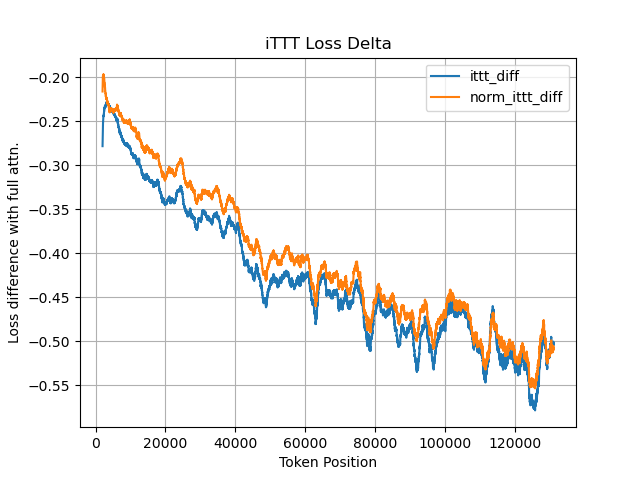
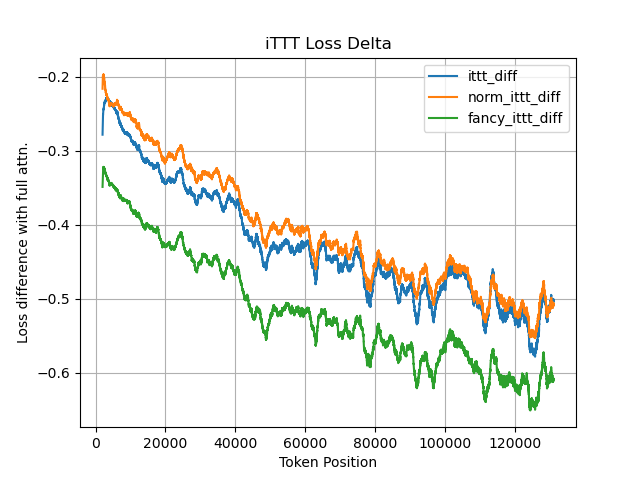
ah

diff --git a/src/compare_ittt.py b/src/compare_ittt.py
@@ -179,10 +179,12 @@ def analyze_results():
     
     diff = ittt_losses - lm_losses
     norm_diff = norm_ittt_losses - lm_losses
+    fancy_diff = fancy_ittt_losses - lm_losses
 
     df = pd.DataFrame({
         "ittt_diff": nan_mean(diff),
         "norm_ittt_diff": nan_mean(norm_diff),
+        "fancy_ittt_diff": nan_mean(fancy_diff),
     })
 
     for col in df.columns:
@@ -203,5 +205,5 @@ def analyze_results():
 
 
 if __name__ == "__main__":
-    main()
+    # main()
     analyze_results()

diff --git a/RESEARCH_AGENDA.md b/RESEARCH_AGENDA.md
@@ -10,6 +10,13 @@ TPU quota expires: ~May 31st
 
 https://aklein.bearblog.dev/ittt/
 
+**Release Name Candidates:**
+- InchWorm
+   - The model inches along the context, keeping constant activation sequence length 
+- Dart or Arrow
+   - Training only moves forward (no BPTT)
+
+
 ## Goals
 1. Paper accepted at NeurIPS 2026
    - Paper Abstract Submission Deadline: May 4th
@@ -20,81 +27,127 @@ https://aklein.bearblog.dev/ittt/
 
 
 ## So Far
-
-### Augmenting Existing Models
-- Demonstrated improved perplexity in plug-and-play setting against sliding-window baseline
-- Continued pretraining (2B tokens) improves perplexity against plug-and-play
-   - Still worse than dense attention
-
-### Training From Scratch
 - Pretrained ~1B models on 2B tokens at 32K sequence length
    - Showed decreasing perplexity with token position (including extrapolation) 
    - Beats dense attention baseline (1B tokens iTTT approx 2B tokens attention)
+      - wins by bigger difference at later token positions
 
 
-## Plan
+## Guidelines
+- Focus on novelty:
+   1. O(1) train-time memory (no BPTT)
+- Be sure to mention:
+   1. Native length extrapolation from inductive bias
+   2. Compatibility with existing LoRA engines
+   3. Ease of implementation (python-level ops only like LaCT)
+- Target results:
+   1. Training length performance similar to attention (even past chinchilla optimal training)
+      - iTTT does particularly better than attention early in training because of inductive bias, need to show that attention doesn't overtake later 
+   2. Better length extrapolation than attention
+   3. Particularly good in-context learning performance
+- Thorough benchmarks and baselines (good science)
+   - perplexity as workhorse metric
+   - real-world (RULER, LongBench) is more important than NIAH
+   - Attention is gold-standard baseline, at least need to test SOTA constant state size method (LaCT? TTT-E2E?)
+   - Use best version of baselines to remove doubt
+- Clear-cut compute/memory metrics and graphs
+- Keep methods simple and elegant
+   - minimize hyper-parameters
+   - minimize and ablate arbitrary design decisions 
+- Include _some_ theory
+   - Connections to meta-learning like MAML and Reptile
+   - Muon optimizer connections to Hebbian learning
+   - High-dimensional MLP -> low-noise Hebbian retrieval
+- Prioritize visual diagrams for method explanations 
+- Need a headline result/graph
+   - Match/beat attention with constant training memory
+   - Extrapolate to 1M+ token sequence length
+- At least one interesting observation/finding/behavior
+- Only mention philosophy (convergence, serial compute, etc) in appendix, if at all
 
-### Experimental Setup
 
-#### Training From Scratch
+## Experimental Setup
 
-**Data**
+### Data
 - Training:
    - Dolma3 Longmino at 32K sequence length
 - Evaluation: 
    - Held out LongMino sequences of 32/64/128K+
-   - Book-3
+   - Books 3
 
-**Scale**
-- Small (~125M), Medium (~350M), XL (~1.1B) parameter
+### Scale
+Current compute+time budget gives us at least 150B-250B total tokens of 1B model training 
+- Medium (~350M), XL (~1.1B) parameter
 models
 - Pretrain each to 25B tokens
-   - Chinchilla optimal for 1.1B, well past for smaller models
+   - That is chinchilla optimal for 1.1B
+   - Much longer than chinchilla optimal for smaller models
 
-**Details**
-- SmolLM2 Tokenizer
+### Details
+- SmolLM2 (50K), TinyLlama (32K), or Mixtra (32K) tokenizer?
+   - smaller vocab saves memory
 - QK-Norm in attention?
 - Default Llama init scale?
+- Muon outer optimizer
+- Nothing else fancy about architecture initialization
 
-#### Existing Models
-- TODO
+## Baselines
 
-### Baselines
-
-**Definitely**
+### Definitely
 - Full attention (w/ appropriate rope theta)
 - Sliding Window Attention
 - Hybrid 5:1 SWA + Full attention
 - LaCT
+- E2E-TTT 
 
-**If Time Permitting**
+### If Time Permitting
 1. GLA + SWA
+   - Supposedly strictly worse than LaCT/E2E-TTT
 2. DeltaNet + SWA
-3. E2E-TTT
-4. In-Place TTT
+   - Supposedly strictly worse than LaCT/E2E-TTT
+3. In-Place TTT
+   - Less notable, more relevant for drop-in instead of training from scratch
 
 
-### Evaluation
+## Evaluation
+
+### Definitely
 - Perplexity at token positions
    - up to 32K (interpolation)
    - up 128K or 1M (extrapolation)
-      - use yarn-like adjustment for full attention
-- Needle in a Haystack
-- BABILong
-- Many-shot In-Context Learning
-   - ManyICLBench? 
+      - use yarn-like adjustment for full attention for best performance
+- Real-world benchmarks
+   - RULER
+   - LongBench v2
+   - HELMET
 - Scaling 
    - Training compute/time/memory
    - Inference compute/time/memory
-- Basic reasoning?
-   - ARC, MMLU, etc
+- Many-shot In-Context Learning
+   - ManyICLBench? 
+   - LongBench v2 subset?
 
-### Ablations
-Performed at Small or Medium scale
+### If Time Permitting
+- Needle in a Haystack
+   - Superseded by RULER
+- Basic reasoning (ARC, MMLU, etc)
+
+## Ablations
+Performed at Small (125M) or Medium (350M) scale, trained to 25B tokens? Simple evaluation with perplexity.
+
+### Definitely
 - Chunk size: 512, 1024, 2048
 - LoRA rank: d_h/8, d_h/4, d_h/2
+- Momentum
+   - at least zero momentum since it uses less memory
 - LoRA placement: Q, O, MLP up/gate?
-- Optimizers: Muon, SGD+momentum, SigNum+momentum?
+   - equivalent state size
+- Train up LoRA projection, not just down
+
+### If time permitting
+- Inner optimizers: Muon, SGD+momentum, SigNum+momentum?
+- base_lr
+- base state
 
 
 ## References
@@ -184,3 +237,12 @@ https://aklein.bearblog.dev/monarc/
     - Showed 2x data efficiency vs. baseline in perplexity
  - Continued pretraining ~350M model on 10B tokens
     - Showed more improvement in perplexity
+
+
+
+# iTTT (Drop-In)
+
+## So Far
+- Demonstrated improved perplexity in plug-and-play setting against sliding-window baseline
+- Continued pretraining (2B tokens) improves perplexity against plug-and-play
+   - Still worse than dense attention
